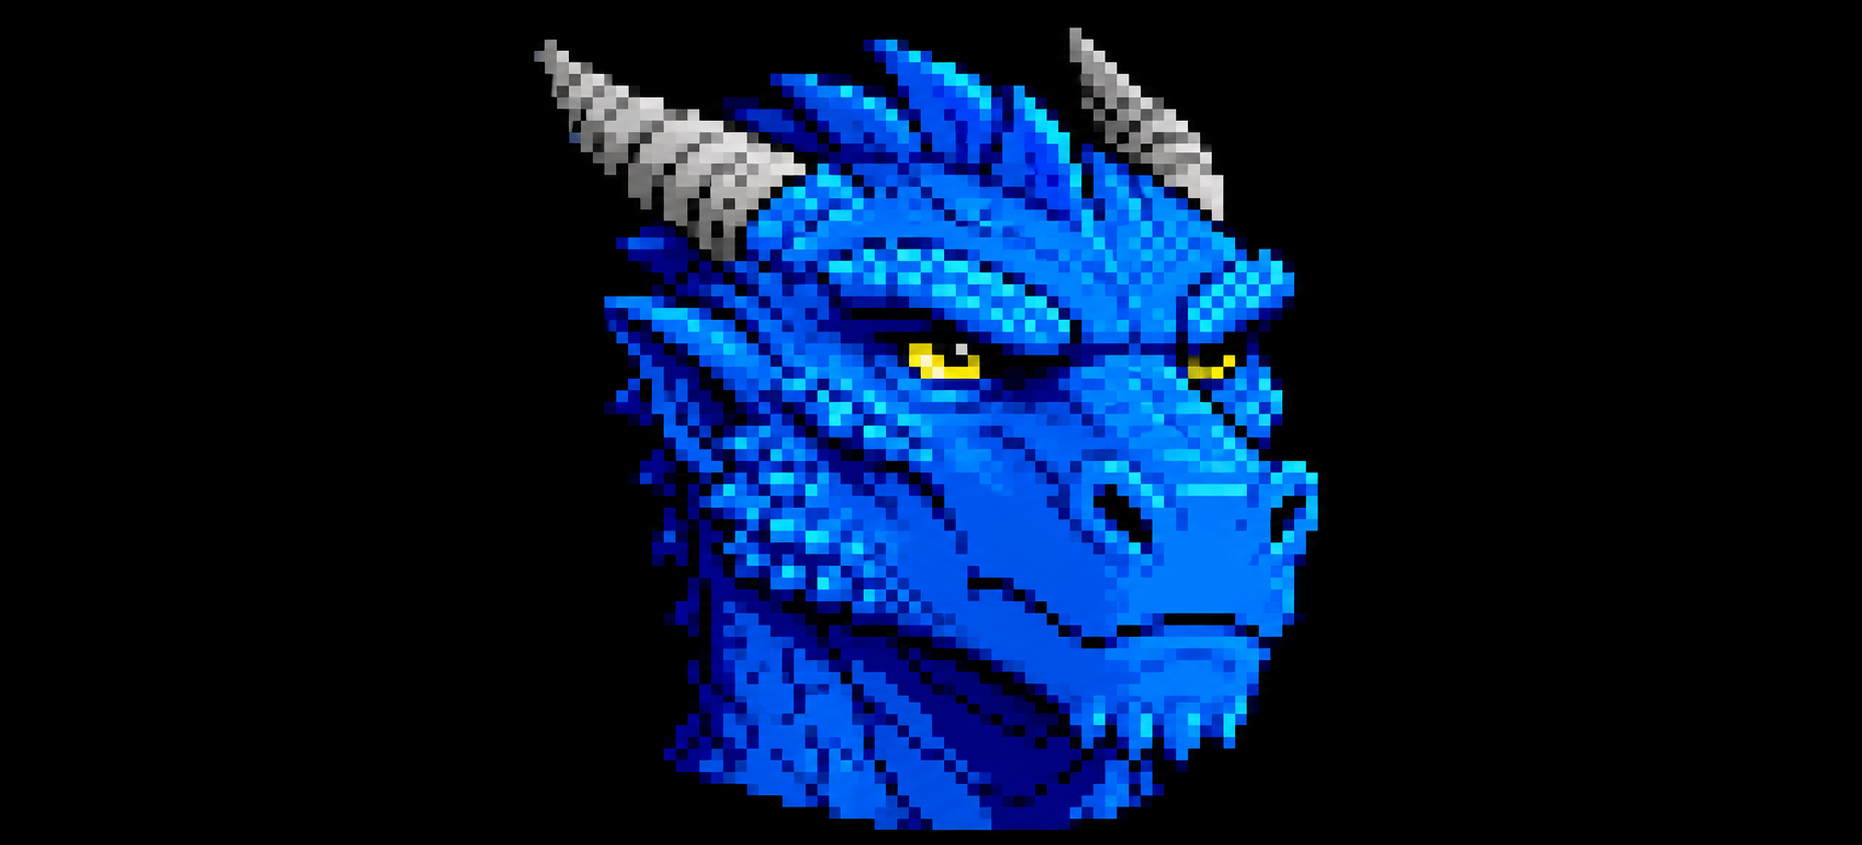
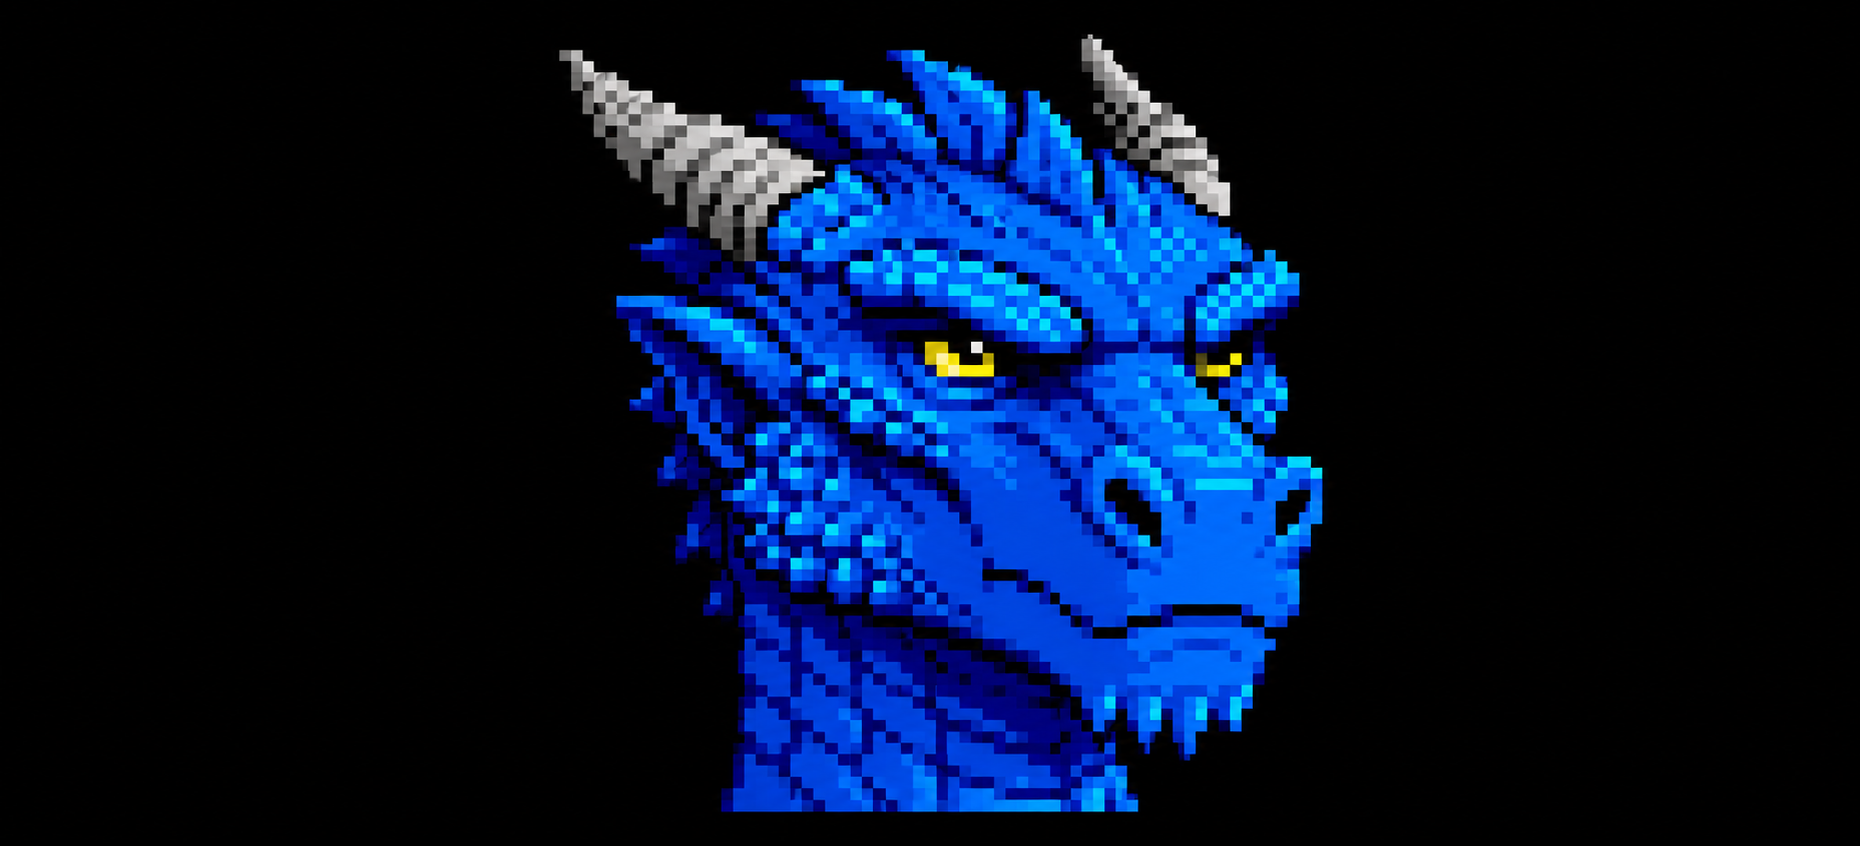
Revise male portrait necks and restore Orc chin clearance

Changed region(s): [[0.2806, 0.0308, 0.7172, 0.9846]]

diff --git a/src/OpenGold.Godot/character_creation_view.cpp b/src/OpenGold.Godot/character_creation_view.cpp
@@ -378,6 +378,21 @@ void CharacterCreationView::_process(double)
         if(check_frames_>400)throw std::runtime_error("Character UI check timed out");}
     catch(const std::exception& e){UtilityFunctions::printerr("Character UI check failed at stage ",check_stage_,": ",gs(e.what()));checking_=false;get_tree()->quit(1);}
 }
+void CharacterCreationView::capture_portrait_armor()
+{
+    if(!capture_)return;
+    constexpr std::array<unsigned,5> heads{1,258,260,262,264};
+    constexpr std::array<unsigned,3> bodies{1,18,26};
+    PackedByteArray pixels;pixels.resize(440*264*4);
+    for(unsigned row=0;row<bodies.size();++row)for(unsigned column=0;column<heads.size();++column) {
+        por::CharacterAppearance a;a.portrait_head=heads[column];a.portrait_body=bodies[row];const auto portrait=art_->portrait(a);
+        for(unsigned y=0;y<88;++y)std::copy_n(portrait.rgba.begin()+y*88*4,88*4,pixels.ptrw()+((row*88+y)*440+column*88)*4);
+    }
+    const auto image=godot::Image::create_from_data(440,264,false,godot::Image::FORMAT_RGBA8,pixels);
+    image->resize(1760,1056,godot::Image::INTERPOLATE_NEAREST);
+    const auto path=ProjectSettings::get_singleton()->globalize_path("res://../user-data/character-portrait-armor.png");
+    if(image->save_png(path)!=OK)throw std::runtime_error("Portrait armor capture failed");
+}
 void CharacterCreationView::check_run()
 {
     const auto click=[&](Vector2 position) {
@@ -500,6 +515,7 @@ void CharacterCreationView::check_run()
         if(a!=creator_->appearance()||a!=completed_->appearance())throw std::runtime_error("Appearance lost on part changes or review");press("Restart");break;}
     case 16:if(completed_||creator_->draft().rolled||!creator_->draft().name.empty()||creator_->step()!=CreationStep::race)throw std::runtime_error("Start over did not clear the character");
         if(creator_->appearance().portrait_head!=265)throw std::runtime_error("Restart did not restore the default race's recommended head");
+        capture_portrait_armor();
         UtilityFunctions::print("Godot C++ character check passed: choices, dice, swaps, background, HP, name, ten new portrait heads fitted to all original bodies, race/gender defaults, twelve live texture recolors, character/inventory, sheet, edit, restart");checking_=false;get_tree()->quit(0);break;
     }
 }

diff --git a/src/OpenGold.Core/src/character_art.cpp b/src/OpenGold.Core/src/character_art.cpp
@@ -9,13 +9,13 @@ namespace {
 constexpr std::array<AdditionalPortraitHead,10> additional_heads{{
     {256,"gnome-male.png","Gnome / Male","gnome","male",36,52,40},
     {257,"gnome-female.png","Gnome / Female","gnome","female",37,49,40},
-    {258,"orc-male.png","Orc / Male","orc","male",31,54,37},
+    {258,"orc-male.png","Orc / Male","orc","male",35,51,40},
     {259,"orc-female.png","Orc / Female","orc","female",29,50,40},
-    {260,"goliath-male.png","Goliath / Male","goliath","male",35,52,40},
+    {260,"goliath-male.png","Goliath / Male","goliath","male",33,52,40},
     {261,"goliath-female.png","Goliath / Female","goliath","female",34,50,40},
     {262,"tiefling-male.png","Tiefling / Male","tiefling","male",35,52,40},
     {263,"tiefling-female.png","Tiefling / Female","tiefling","female",36,49,40},
-    {264,"dragonborn-male.png","Dragonborn / Male","dragonborn","male",37,54,39},
+    {264,"dragonborn-male.png","Dragonborn / Male","dragonborn","male",34,54,40},
     {265,"dragonborn-female.png","Dragonborn / Female","dragonborn","female",35,51,40}
 }};
 const AdditionalPortraitHead& additional_head(unsigned id)

diff --git a/tests/character_tests.cpp b/tests/character_tests.cpp
@@ -183,8 +183,8 @@ void additional_portrait_tests()
     }
     Image rounded;rounded.width=88;rounded.height=40;rounded.rgba.assign(88*40*4,255);
     for(unsigned y=0;y<40;++y)for(unsigned x=0;x<88;++x)rounded.rgba[(y*88+x)*4]=y;
-    check(prepare_portrait_head(rounded,258).rgba[39*88*4]==36&&
-        prepare_portrait_head(rounded,264).rgba[39*88*4]==38,"Orc and Dragonborn crops exclude the rounded bottom remnants");
+    for(const auto id:{258u,260u,262u,264u})check(prepare_portrait_head(rounded,id).rgba[39*88*4]==39,
+        "Revised male heads retain the full neck below the chin instead of cropping it into the armor");
 }
 void art_tests()
 {

diff --git a/src/OpenGold.Godot/character_creation_view.h b/src/OpenGold.Godot/character_creation_view.h
@@ -49,5 +49,6 @@ private:
     void palette_selected(int index);
     void check_run();
     void capture(const char* name);
+    void capture_portrait_armor();
 };
 #endif

diff --git a/docs/CHARACTER-CREATION.md b/docs/CHARACTER-CREATION.md
@@ -122,14 +122,18 @@ body's opening by its original skin color `(255,85,85)` in top-row columns
 30..61, excluding collars and armor. An unrecognized opening uses x=36..55.
 
 `AdditionalPortraitHead` stores the source neck edges and retained row count
-on the fitted 88 x 40 grid. The male Orc keeps 37 rows and male Dragonborn 39,
-excluding their rounded bottom remnants; the other heads keep 40. These
-anchors exclude braids and hair from the neck measurement. This fixes position
-and width; original body skin colors can still differ from the new heads.
+on the fitted 88 x 40 grid. All ten heads now keep all 40 rows. The male Orc,
+Goliath, Tiefling and Dragonborn source artwork was revised to give the necks
+straight sides and flat bases, with the complete chin above the join. Their
+anchors were remeasured. In particular, the old Orc crop removed needed neck
+space and is no longer applied. Anchors exclude braids and hair from the neck
+measurement; original body skin colors can still differ from the new heads.
 
-Native tests check varied neck widths, unchanged faces/body pixels, and the
-two crops. The Godot `--character-check` also checks every new head against
-every loaded original body and verifies live updates when changing bodies.
+Native tests check varied neck widths, unchanged face proportions/body pixels,
+and retention of the revised necks. The Godot `--character-check` also checks
+every new head against every loaded original body and verifies live updates
+when changing bodies. Numerical seam checks cannot establish anatomical fit;
+the armor comparison capture is also reviewed visually.
 
 ### Combat parts
 
@@ -202,3 +206,7 @@ For local screenshots of attributes, appearance and the sheet, omit
 `--headless` and append `--capture`. Captures go to ignored `user-data/` files.
 This also saves one composed portrait preview for each new head as
 `character-portrait-<species>-<gender>.png`.
+`character-portrait-armor.png` compares original head 1 with the male Orc,
+Goliath, Tiefling and Dragonborn (columns left to right) on armor bodies 1, 18
+and 26 (rows top to bottom). It is a local rendering of installed game art and
+is not distributed.

diff --git a/data/art/portraits/README.md b/data/art/portraits/README.md
@@ -16,6 +16,13 @@ The Goliath pair now uses slate-blue skin, russet-brown markings and amber
 eyes. The color revision preserves their faces and framing; its edit prompts
 are recorded alongside the original generation prompts.
 
+The male Orc, Goliath, Tiefling and Dragonborn were subsequently edited with
+the built-in image generation tool to straighten their necks and provide flat
+bases. The Orc's full chin now has neck space below it before the armor join;
+its former runtime crop has been removed. The exact edit prompts are recorded
+in [neck-revision-prompts.json](neck-revision-prompts.json). These four updated
+PNGs replace the previous versions at the same paths and retain their IDs.
+
 These enlarged source PNGs are now used by the native character creator.
 `build-rolf.cmd` copies them into `godot/bin/portraits/`, and the review launcher
 imports those copies as Godot resources. At load time, native code fits each
